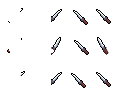
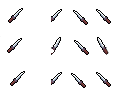
Add mergeHandPaperdoll method
If you had weapon paperdoll and you were going north the sword would appear ABOVE your body (spritesheet). Now the frames of walking upwards are "rendered" below spritesheet while the other frames are "rendered" above spritesheet.

Changed region(s): [[0.0625, 0.7812, 0.1875, 0.9062], [0.0625, 0.0938, 0.1562, 0.25], [0.0625, 0.4062, 0.1562, 0.5312]]

diff --git a/src/entity/Player.java b/src/entity/Player.java
@@ -5,6 +5,7 @@ import java.awt.Graphics2D;
 import java.awt.Rectangle;
 import java.awt.image.BufferedImage;
 import java.io.IOException;
+import java.nio.Buffer;
 
 import conditions.Condition;
 import main.GamePanel;
@@ -30,15 +31,32 @@ public class Player extends Entity {
         } catch (IOException e) {
             e.printStackTrace();
         }
-        this.setSpriteSheet(uTool.combineImages(spriteSheet, leftHandPaperdoll));
+        this.setSpriteSheet(mergeHandPaperdoll(leftHandPaperdoll));
     }
     public void updatePaperdolls2() {
         this.setSpriteSheet(characterSpriteSheet);
     }
+    // End of test functions
 
     public void setSpriteSheet(BufferedImage newSpritesheet) {
         this.spriteSheet = newSpritesheet;
         this.setFrameImages();
+    }
+
+    // the 1st column of spritesheet (going up/north) ... has to be drawn below spritesheet and other directions above spritesheet
+    public BufferedImage mergeHandPaperdoll(BufferedImage paperdoll) {
+        BufferedImage newSpritesheet = new BufferedImage(spriteSheet.getWidth(), spriteSheet.getHeight(), BufferedImage.TYPE_INT_ARGB);
+
+        int width = paperdoll.getWidth();
+
+        Graphics2D g2 = newSpritesheet.createGraphics();
+
+        g2.drawImage(paperdoll.getSubimage(0, 0, width/4, paperdoll.getHeight()), 0, 0, null);
+        g2.drawImage(this.spriteSheet, 0, 0, null);
+        g2.drawImage(paperdoll.getSubimage(width/4, 0, width * 3/4, paperdoll.getHeight()), width/4, 0, null);
+
+        g2.dispose();
+        return newSpritesheet;
     }
 
     public Player(GamePanel gp, KeyHandler keyH) {
